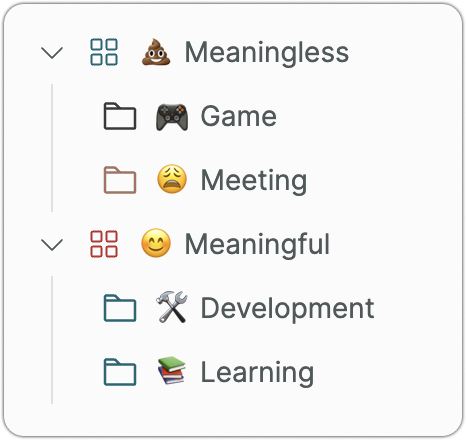
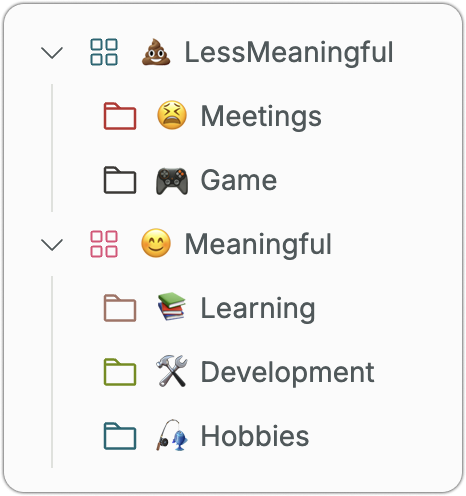
chore: rename the default category name (#94)

diff --git a/packages/services/src/users/create-sample-data.test.ts b/packages/services/src/users/create-sample-data.test.ts
@@ -159,7 +159,7 @@ describe("createSampleData", () => {
       expect(categories).toStrictEqual(
         expect.arrayContaining([
           {
-            name: "Meaningless",
+            name: "LessMeaningful",
             userId: user.id,
             id: expect.any(String) as unknown,
             categoryFolders: expect.arrayContaining([
@@ -221,7 +221,7 @@ describe("createSampleData", () => {
       expect(chart?.chartCategories).toHaveLength(2);
       expect(chart).toStrictEqual({
         userId: user.id,
-        name: "Meaningful vs Meaningless",
+        name: "Meaningful vs LessMeaningful",
         chartFolders: [],
         chartCategories: expect.arrayContaining(
           categories.map(({ id }) => ({ categoryId: id })),

diff --git a/packages/services/src/users/create-sample-data.ts b/packages/services/src/users/create-sample-data.ts
@@ -51,7 +51,7 @@ export const createSampleData = (db: PrismaClient) =>
       const meaninglessCategory = await createCategory(db)({
         userId: input.userId,
         color: "#026773",
-        name: "Meaningless",
+        name: "LessMeaningful",
         emoji: "💩",
         folderIds: [workFolder.id, gameFolder.id],
       });
@@ -64,7 +64,7 @@ export const createSampleData = (db: PrismaClient) =>
       });
       await createChart(db)({
         userId: input.userId,
-        name: "Meaningful vs Meaningless",
+        name: "Meaningful vs LessMeaningful",
         folderIds: [],
         categoryIds: [meaninglessCategory.id, meaningfulCategory.id],
       });
